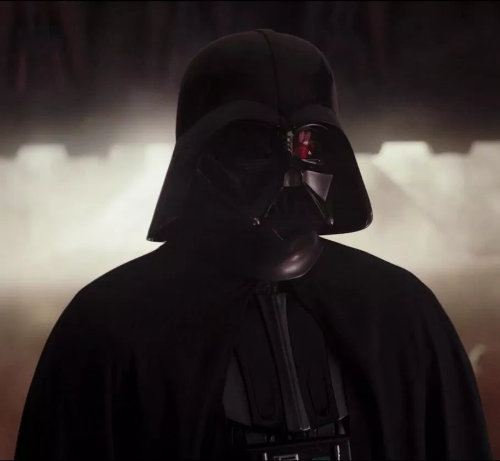
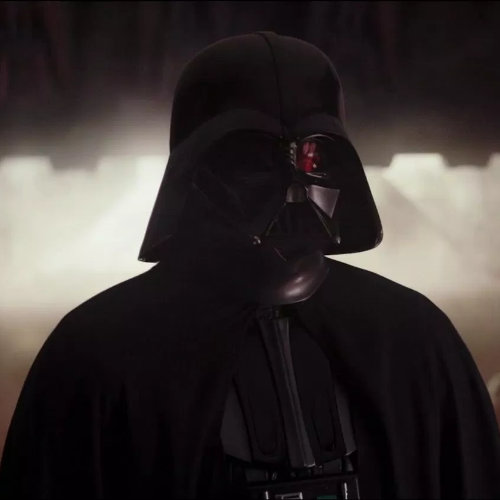
fix: mobile responsive/image opt

diff --git a/src/components/Homepage.js b/src/components/Homepage.js
@@ -1,18 +1,18 @@
 import { Link } from "react-router-dom";
 export default function Homepage() {
     return (
-            <main className="w-2/3 mx-auto">
+            <main>
                 <h1>Homepage</h1>
-                <section className="flex flex-wrap justify-around mt-10">
+                <section className="flex flex-wrap justify-evenly mt-10 gap-y-10 md:gap-y-0">
                     <Link to="/planets" className="hover:no-underline hover:text-white">
-                    <div className="hover:shadow-home py-20 px-16 border-white border-2 bg-tatooine bg-contain transition-all duration-150 hover:scale-105">
+                    <div className="flex items-center justify-center w-52 h-52 md:h-full md:w-auto hover:shadow-home md:py-20 md:px-16 border-white border-2 bg-tatooine bg-cover transition-all duration-150 hover:scale-105">
                         <h2>
                             Planets
                         </h2>
                     </div>
                     </Link>
                     <Link to="/people" className="hover:no-underline hover:text-white">
-                    <div className="hover:shadow-home py-20 px-16 border-white border-2 bg-darth bg-contain transition-all duration-150 hover:scale-105">
+                    <div className="flex items-center justify-center w-52 h-52 md:h-full md:w-auto hover:shadow-home md:py-20 md:px-16 border-white border-2 bg-darth bg-cover transition-all duration-150 hover:scale-105">
                         <h2>
                             People
                         </h2>

diff --git a/src/components/People.js b/src/components/People.js
@@ -33,7 +33,7 @@ export default function People(props) {
             setRenderPeople(
                 currentPeople.map((person, index) => {
                     return (
-                        <div key={index} className="flex flex-wrap basis-1/4 justify-center py-4">
+                        <div key={index} className="flex flex-wrap basis-1/2 md:basis-1/4 justify-center py-4">
                             <h3>
                                 <Link 
                                     to={`/people/${person.name.replace(/\W+/g, '-').toLowerCase()}`}
@@ -65,12 +65,12 @@ export default function People(props) {
             return (
                 <>
                 <h1 className="mb-10">People of the Star Wars Universe</h1>
-                <main className="w-3/4 mx-auto">
+                <main className="w-11/12 md:w-3/4 mx-auto">
                     <section className="flex flex-wrap justify-center">
                         {renderPeople}
                     </section>
-                    <section className="flex justify-center mt-10">
-                        <ul className="inline-flex flex-wrap">
+                    <section className="mt-10">
+                        <ul className="flex flex-wrap justify-around md:justify-center">
                             {renderPageNumbers}
                         </ul>
                     </section>

diff --git a/src/components/Planets.js b/src/components/Planets.js
@@ -33,7 +33,7 @@ export default function People(props) {
             setRenderPlanets(
                 currentPlanets.map((planet, index) => {
                     return (
-                        <div key={index} className="flex flex-wrap basis-1/4 justify-center py-4">
+                        <div key={index} className="flex flex-wrap basis-1/2 md:basis-1/4 justify-center py-4">
                             <h3>
                                 <Link 
                                     to={`/planets/${planet.name.replace(/\W+/g, '-').toLowerCase()}`}
@@ -69,8 +69,8 @@ export default function People(props) {
                     <section className="flex flex-wrap justify-center">
                         {renderPlanets}
                     </section>
-                    <section className="flex justify-center mt-10">
-                        <ul className="inline-flex flex-wrap">
+                    <section className="mt-10">
+                        <ul className="flex flex-wrap justify-around md:justify-center">
                             {renderPageNumbers}
                         </ul>
                     </section>

diff --git a/src/index.css b/src/index.css
@@ -22,7 +22,7 @@
         @apply tracking-wider block py-3 px-6 text-custYellow text-2xl font-restore font-black transition-all hover:scale-110 hover:duration-150 hover:font-black;
     }
     .pagination-item {
-        @apply px-5 mx-2 text-xl font-semibold font-restore text-custYellow transition-all duration-200 decoration-transparent hover:underline hover:decoration-custYellow hover:cursor-pointer;
+        @apply px-0 md:px-5 md:mx-2 text-xl font-semibold font-restore text-custYellow transition-all duration-200 decoration-transparent hover:underline hover:decoration-custYellow hover:cursor-pointer;
     }
 }
 @tailwind utilities;

diff --git a/src/components/Nav.js b/src/components/Nav.js
@@ -4,7 +4,7 @@ import {
 export default function Nav() {
   return(
       <nav className="bg-nav bg-repeat bg-contain h-48 pt-4">
-        <ul className="flex gap-x-10 justify-center py-10">
+        <ul className="flex md:gap-x-10 justify-center py-10 flex-wrap">
           <li>
             <Link to="/" className="nav-item">Home</Link>
           </li>

diff --git a/src/App.js b/src/App.js
@@ -62,7 +62,7 @@ function App() {
     }, [])
 
     return (
-        <div className="wrapper bg-black min-h-screen text-white pb-20">
+        <div className="bg-black min-h-screen text-white pb-20">
             <Nav />
             <Routes>
                 <Route path="/" element={<Homepage />} />
